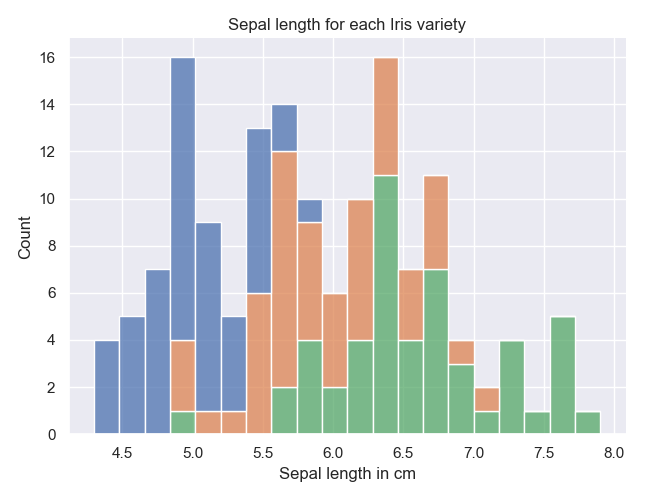
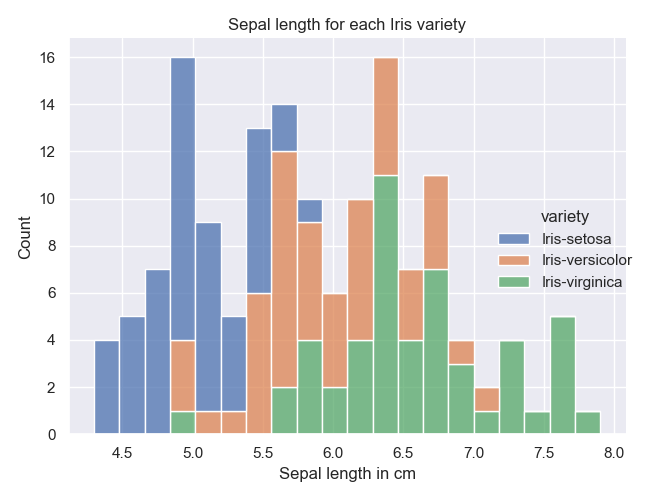
added skewness to the summary statistics

Changed region(s): [[0.774, 0.42, 0.9907, 0.6]]

diff --git a/analysis.py b/analysis.py
@@ -16,23 +16,23 @@ df = pd.read_csv("iris.data.csv", names=['sepal length', 'sepal width', 'petal l
 # To print the summary statistics to a file, we create a function where all of the print statements contained within get printed to
 # the text file when the function is called. This will allow us to just print the summary statistics to the text file and none of the
 # other output from the script which will be in the terminal.
-# def summary_statistics():
+def summary_statistics():
 
 
 # The function sys.stdout allows us to redirect the print statements contained within it to a text file
 # Reference: https://stackoverflow.com/questions/23364096/how-to-write-output-of-terminal-to-file
-#    f = open("summary statistics.txt", 'w')
-#    sys.stdout = f
+    f = open("summary statistics.txt", 'w')
+    sys.stdout = f
 
-#    summary_stats = df.describe()
+    summary_stats = df.describe()
     
     
 # This firstly transposes the output of the .describe() method, to make it easier to read it when it is printed out. 
 # References: https://numpy.org/doc/stable/reference/generated/numpy.transpose.html 
 
 
-#    transpose_summary = np.transpose(summary_stats)
-#    summary= transpose_summary
+    transpose_summary = np.transpose(summary_stats)
+    summary= transpose_summary
 
     
 # The groupyby function in pandas allows us to split the dataframe into groups separated according to the data in the 
@@ -40,54 +40,65 @@ df = pd.read_csv("iris.data.csv", names=['sepal length', 'sepal width', 'petal l
 # We can then generate summary statistics for each class of Iris in the dataset.
 # Reference: https://www.geeksforgeeks.org/python-pandas-dataframe-groupby/ 
     
-#    summary_stats_by_class = df.groupby("variety").describe()
-#    transpose_summary_class = np.transpose(summary_stats_by_class)
-#    summary_by_class= transpose_summary_class
+    summary_stats_by_class = df.groupby("variety").describe()
+    transpose_summary_class = np.transpose(summary_stats_by_class)
+    summary_by_class= transpose_summary_class
 
 
 # I have added calculations for the Coefficient of Variation summary statistic to the outputted text file, 
 # because this statistic isn't provided directly by the .decribe() method, but I feel this is a useful statistic to 
 # provide a high-level picture of which traits are the most variable within the sample as a whole.
 
-#    meansl = df["sepal length"].mean()
-#    sdsl = df["sepal length"].std()
-#    meansw = df["sepal width"].mean()
-#    sdsw = df["sepal width"].std()
-#    meanpl = df["petal length"].mean()
-#    sdpl = df["petal length"].std()
-#    meanpw = df["petal width"].mean()
-#    sdpw = df["petal width"].std()
-    
+    meansl = df["sepal length"].mean()
+    sdsl = df["sepal length"].std()
+    meansw = df["sepal width"].mean()
+    sdsw = df["sepal width"].std()
+    meanpl = df["petal length"].mean()
+    sdpl = df["petal length"].std()
+    meanpw = df["petal width"].mean()
+    sdpw = df["petal width"].std()
 
-#    print("Summary statistics for the four variables measured for the Iris data set")
-#    print("\n\n")
-#    print(summary)
-#    print("\n\n")
-#    print("Here are some summary statistics for each class of Iris flower: \n")
-#    print(summary_by_class)
-#    print("\n")
-#    print("The coefficient of variation for each trait within the sample as a whole is as follows: \n")
-#    print(f'Sepal length: CoV = {sdsl/meansl}')
-#    print(f'Sepal width: CoV = {sdsw/meansw}')
-#    print(f'Petal length: CoV = {sdpl/meanpl}')
-#    print(f'Petal width: CoV = {sdpw/meanpw}')
-#    print("\n\n")
-#    print("For a description of these summary statistics, please see the README file for this project.")
+    skewsl = df["sepal length"].skew()
+    skewsw = df["sepal width"].skew()
+    skewpl = df["petal length"].skew()
+    skewpw = df["petal width"].skew() 
 
-#    f.close()
+    print("Summary statistics for the four variables measured for the Iris data set: ")
+    print("\n\n")
+    print(summary)
+    print("\n\n")
+    print("Here are some summary statistics for each class of Iris flower: \n")
+    print(summary_by_class)
+    print("\n")
+    print("The coefficient of variation for each trait within the sample as a whole is as follows: \n")
+    print(f'Sepal length: CoV = {sdsl/meansl}')
+    print(f'Sepal width: CoV = {sdsw/meansw}')
+    print(f'Petal length: CoV = {sdpl/meanpl}')
+    print(f'Petal width: CoV = {sdpw/meanpw}')
+    print("\n\n")
+    print("The skewness of each trait within the sample as a whole is as follows: \n ")
+    print(f'Sepal length: Skewness = {skewsl}')
+    print(f'Sepal width: Skewness = {skewsw}')
+    print(f'Petal length: Skewness = {skewpl}')
+    print(f'Petal width: Skewness = {skewpw}')
+    print("\n\n")
+    print("For a description of these summary statistics, please see the README file for this project.")
+
+    f.close()
 
 # this calls the function defined above
-# summary_statistics()
+summary_statistics()
 
 
 
 
-# The below section of this script generates the histograms for the project
+# The below section of this script generates the histograms for the project.
 # sns.set() imposes one of five general themes on to the histograms.
-# sns.displot creates each histogram; here we pass in the Dataframe which we will generate the histogram from,
-# specify the column to be analysed (eg. 'sepal length'), and select the number of bins and colour for the graph. 
+# sns.displot creates each histogram: here we pass in the Dataframe, df, which we will generate the histogram from,
+# specify the column to be analysed (eg. 'sepal length'), and select the number of bins for the histogram.
 # I used the 'hue' argument to cause the data in the histogram to be coloured according to what variety of Iris flower
-# the data relates to. This allows us to compare the distribution of each trait for each variety of Iris flower.
+# the data relates to, and a legend is automatically created. 
+# This allows us to compare the distribution of each trait for each variety of Iris flower.
 # The 'stack' argument causes the data to overlap in a stacked fashion, rather than layering them over each other transparently,
 # which I think makes it harder to compare the data.
 # Reference: https://seaborn.pydata.org/tutorial/distributions.html?highlight=histogram
